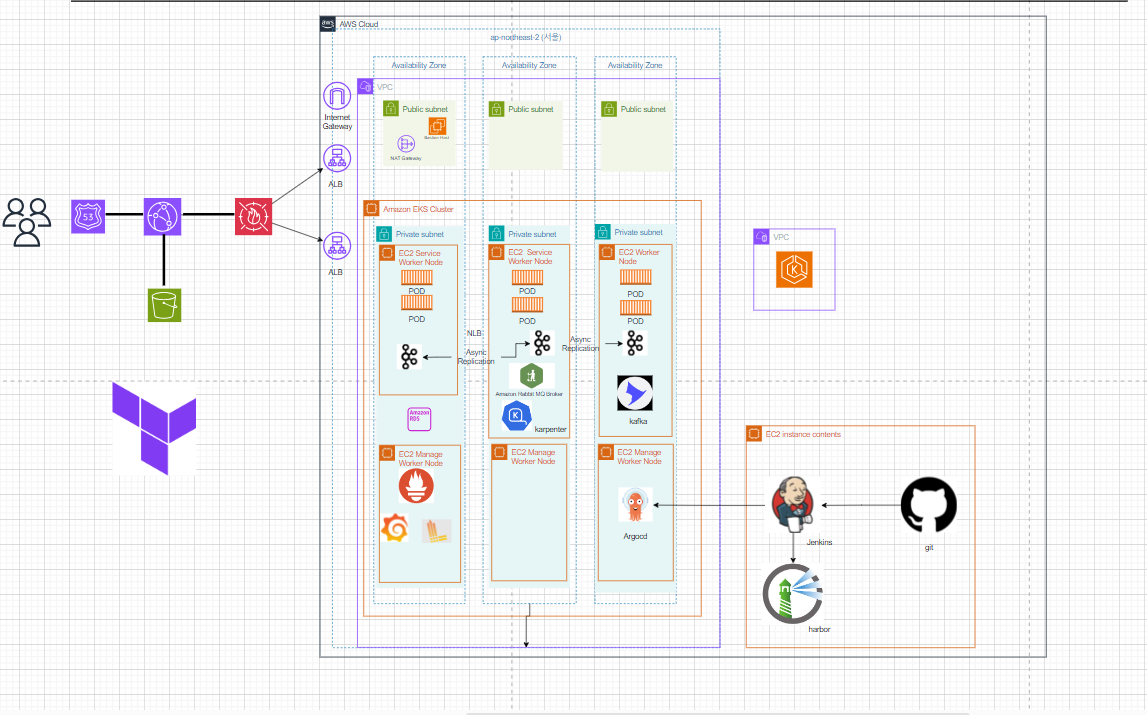
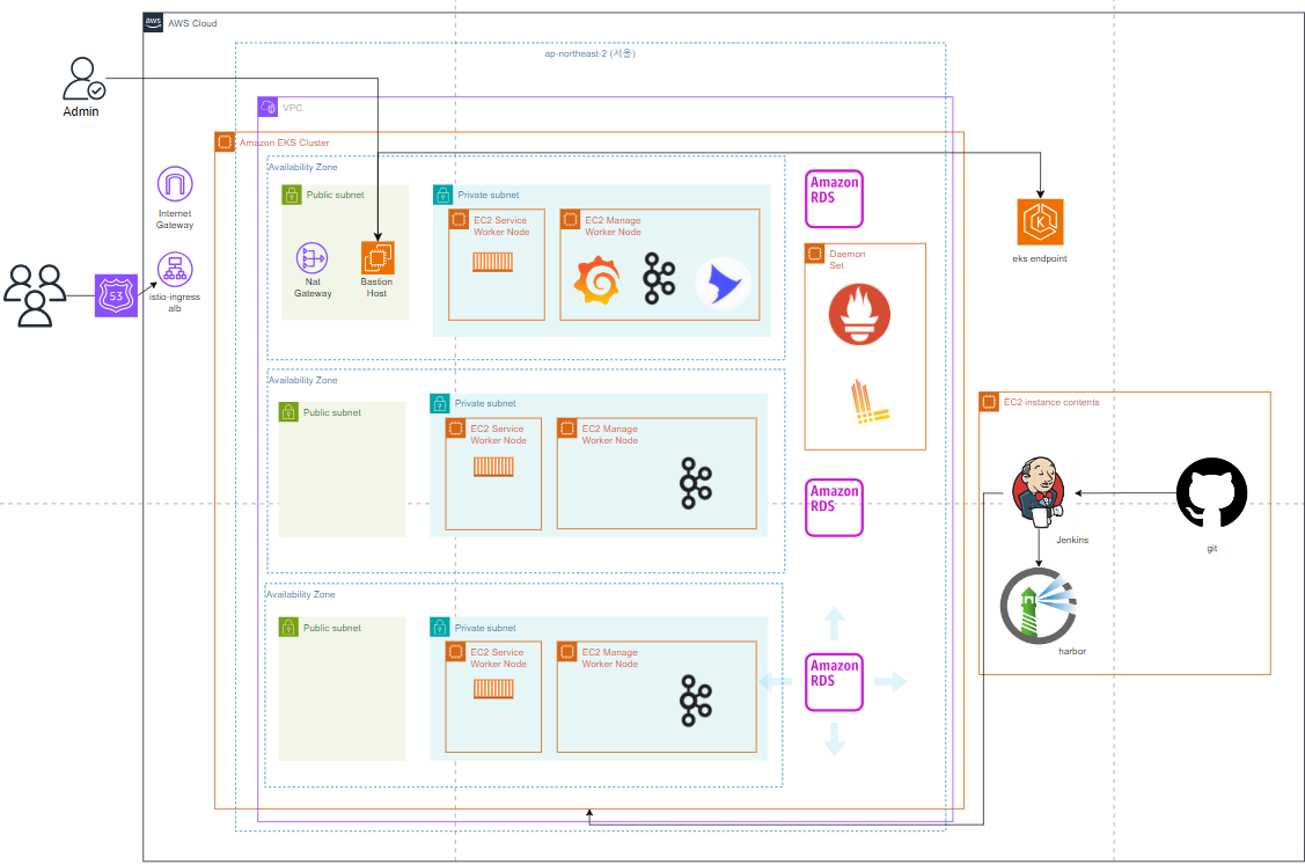
edit markdown

Changed region(s): [[0.0, 0.0, 1.0, 1.0], [0.9765, 0.0615, 1.0, 0.3077], [0.0915, 0.6769, 0.1221, 0.8]]

diff --git a/README.md b/README.md
@@ -1,10 +1,19 @@
-# 우당탕탕 MSA 개발기
+# Terraform으로 EKS 구성 
 
----
 
-[개발 저장소 바로가기](https://github.com/cjgoraegorae)  
+-- 
+테라폼 생성 아키텍처  
+EKS, Karpenter, ALB Controller 생성  
 
---- 
-프로젝트 아키텍처
+![](./terraform.png)  
+
+-- 
+Kube ops view를 사용해 Karpenter 작동 확인
+
+![](./kubeopsview.gif)
+
+
+-- 
+전체 프로젝트 아키텍처
 ![](./archi.png)
 
